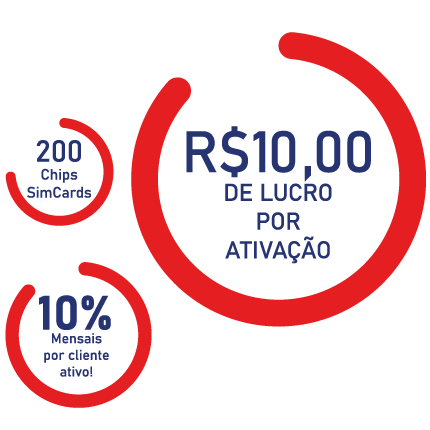
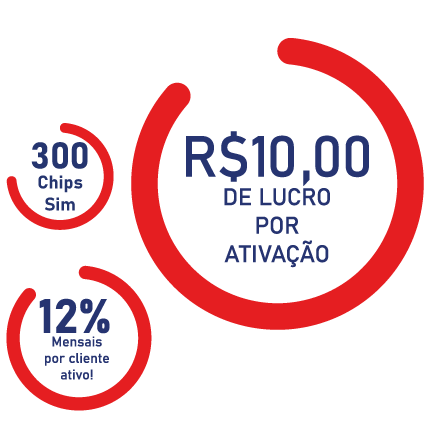
att

diff --git a/franquia.html b/franquia.html
@@ -389,7 +389,7 @@
 						<div class="about_content">
 							<div class="section-title style_one">
 								<h1>Ganhos Recorrentes</h1>
-								<p>Tenha ganhos recorrentes com nossa franquia. Você recebe 200 SIMCARDS ou 200 E-SIM e pode comercializá-los como preferir. Você ganha na ativação do plano e também mensalmente basta seu cliente permanecer ativo pagando o plano mensalmente. Ao adquirir a franquia, seus ganhos serão vitalícios. </p>
+								<p>Tenha ganhos recorrentes com nossa franquia. Você recebe 300 SIMCARDS ou 300 E-SIM e pode comercializá-los como preferir. Você ganha na ativação do plano e também mensalmente basta seu cliente permanecer ativo pagando o plano mensalmente. Ao adquirir a franquia, seus ganhos serão vitalícios. </p>
 							</div>
 							<div class="row">
 								<div class="col-lg-6 col-md-6">
@@ -404,7 +404,7 @@
 								<div class="col-lg-6 col-md-6">
 									<div class="about-single-item">
 										<div class="about-text">
-											<h3 class="">10%</h3>
+											<h3 class="">12%</h3>
 											<p>Mensais por cliente ativo.</p>
 										</div>
 									</div>
